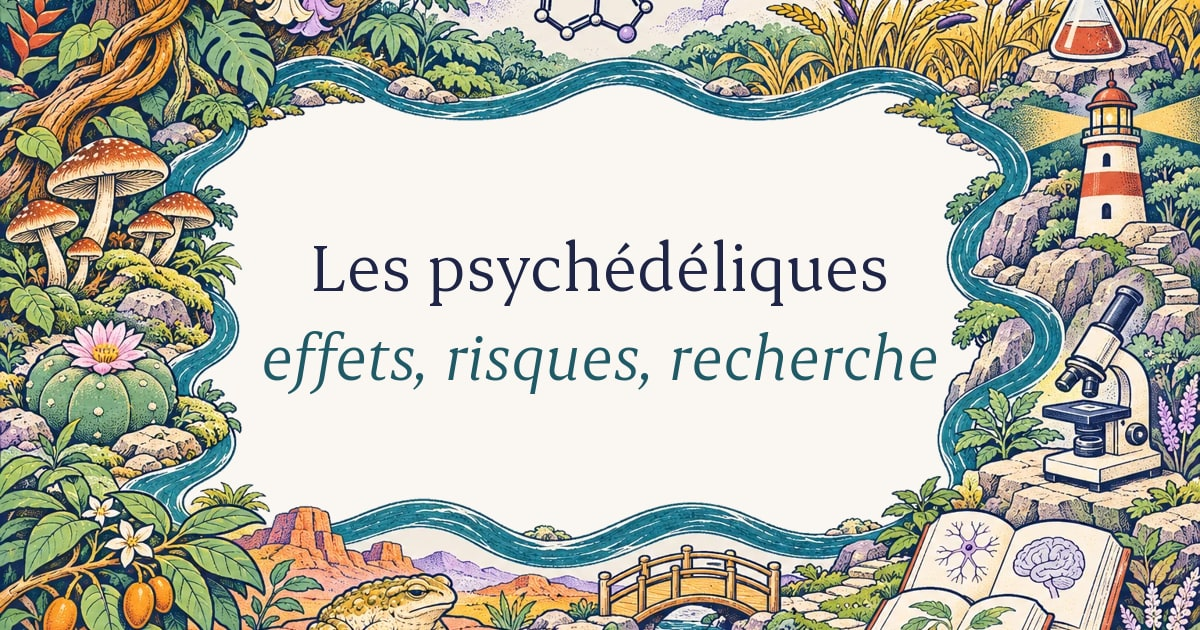
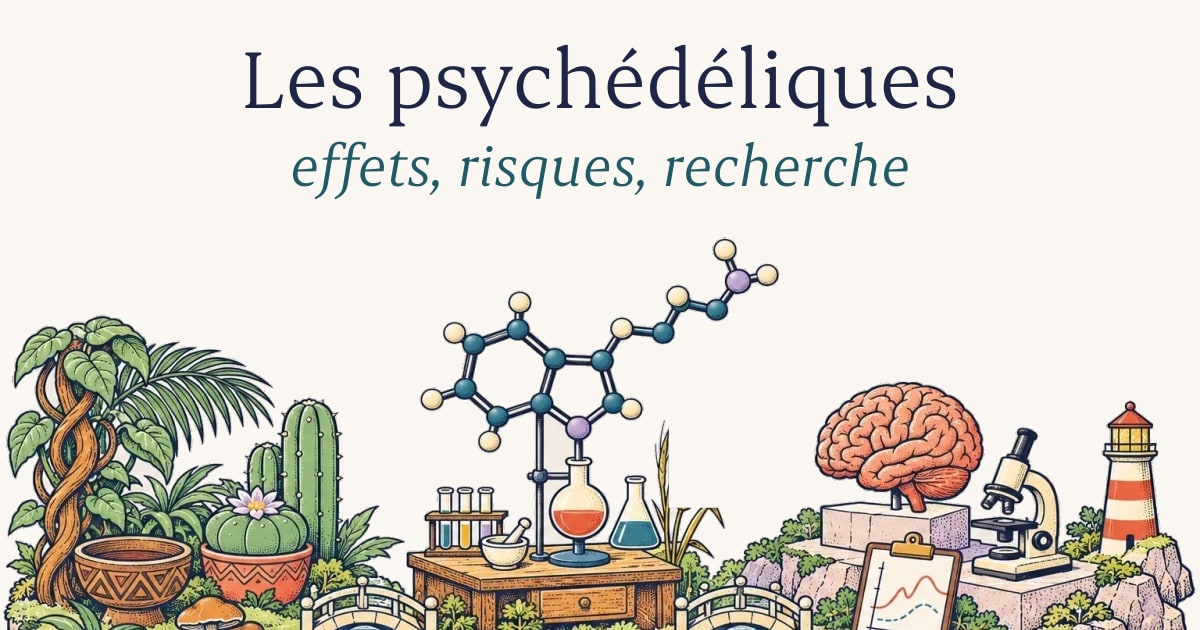
Serve Markdown to agents, add llms.txt and a privacy page (#3)
* Serve Markdown to agents, add llms.txt, a privacy page and richer Organization data

Requests with Accept: text/markdown get a Markdown copy of each page
(built into dist/<path>/index.md) with Vary: Accept, and a Markdown 404
that links to llms.txt and the sitemap. HTML responses now vary on Accept.
llms.txt lists every guide and article and says when an agent should use
the site. /confidentialite/ describes what the forms and analytics collect;
/about/ and /privacy/ redirect to the French pages. The home Organization
JSON-LD gains a description, knowsAbout and a contact point.

* Address review: wildcard Accept, Markdown 404 for any missing page, narrower Worker routes, fuller privacy page

HTML quality now follows RFC 9110 media-range precedence. Missing .md
files and paths without a trailing slash get the Markdown 404, and
pages without a slash redirect as before instead of serving a duplicate.
Static asset folders skip the Worker. The privacy page discloses that
newsletter signups are emailed to the team, describes the archive of the
old WordPress site and calls the anti-abuse key pseudonymised data.

* Use the hero illustration in the home share image

* Home share image: drawing as a full-width band under the title

* Home share image: full-width hero drawing under a larger title

diff --git a/tests/markdown.test.ts b/tests/markdown.test.ts
@@ -1,0 +1,101 @@
+import { test } from 'node:test'
+import assert from 'node:assert/strict'
+import { serveAsset, wantsMarkdown } from '../worker/markdown.ts'
+import { notFoundMarkdown, pageMarkdown } from '../scripts/build-markdown.mjs'
+
+const SITE = 'https://latroisiemevague.com'
+const files: Record<string, { body: string; type: string }> = {
+  '/': { body: '<!doctype html><title>Accueil</title>', type: 'text/html; charset=utf-8' },
+  '/index.md': { body: '# Accueil\n', type: 'text/markdown' },
+  '/substances/lsd/': { body: '<!doctype html><title>LSD</title>', type: 'text/html; charset=utf-8' },
+  '/substances/lsd/index.md': { body: '# LSD\n', type: 'text/markdown' },
+  '/404.md': { body: notFoundMarkdown, type: 'text/markdown' },
+  '/og.jpg': { body: 'jpeg', type: 'image/jpeg' },
+}
+const redirects: Record<string, string> = { '/about/': '/a-propos/', '/substances/lsd': '/substances/lsd/' }
+/** Stands in for the Workers static-assets binding: files, `_redirects`, and the HTML 404 page. */
+const assets = { async fetch(input: Request) {
+  const { pathname } = new URL(input.url)
+  if (redirects[pathname]) return new Response(null, { status: 301, headers: { Location: redirects[pathname] } })
+  const file = files[pathname]
+  return file ? new Response(file.body, { headers: { 'Content-Type': file.type } }) : new Response('<!doctype html><title>404</title>', { status: 404, headers: { 'Content-Type': 'text/html' } })
+} } as unknown as Fetcher
+const get = (path: string, accept: string, method = 'GET') => serveAsset(new Request(SITE + path, { method, headers: { accept } }), assets)
+
+test('Accept parsing prefers Markdown only when asked at least as strongly as HTML', () => {
+  const req = (accept: string) => new Request(SITE, { headers: { accept } })
+  assert.equal(wantsMarkdown(req('text/markdown')), true)
+  assert.equal(wantsMarkdown(req('text/markdown, text/html;q=0.9')), true)
+  assert.equal(wantsMarkdown(req('text/html, text/markdown;q=0.5')), false)
+  assert.equal(wantsMarkdown(req('text/html,application/xhtml+xml,*/*;q=0.8')), false)
+  assert.equal(wantsMarkdown(req('*/*')), false)
+  assert.equal(wantsMarkdown(req('text/markdown;q=0')), false)
+  // A wildcard can still rank HTML above Markdown (RFC 9110 §12.5.1).
+  assert.equal(wantsMarkdown(req('text/markdown;q=0.1, text/*;q=0.9')), false)
+  assert.equal(wantsMarkdown(req('text/markdown, */*;q=0.8')), true)
+  assert.equal(wantsMarkdown(req('text/*')), false)
+})
+
+test('Accept: text/markdown on the home page returns Markdown with Vary: Accept', async () => {
+  const res = await get('/', 'text/markdown')
+  assert.equal(res.status, 200)
+  assert.match(res.headers.get('content-type')!, /^text\/markdown/)
+  assert.match(res.headers.get('vary')!, /Accept/)
+  assert.equal(await res.text(), '# Accueil\n')
+})
+
+test('Accept: text/html keeps the HTML page and adds Vary: Accept', async () => {
+  const res = await get('/', 'text/html')
+  assert.equal(res.status, 200)
+  assert.match(res.headers.get('content-type')!, /^text\/html/)
+  assert.match(res.headers.get('vary')!, /Accept/)
+  assert.match(await res.text(), /<title>Accueil/)
+})
+
+test('a missing page returns 404 with a Markdown body that links to llms.txt and the sitemap', async () => {
+  const res = await get('/nexiste-pas/', 'text/markdown')
+  assert.equal(res.status, 404)
+  assert.match(res.headers.get('content-type')!, /^text\/markdown/)
+  const body = await res.text()
+  assert.ok(body.length >= 20)
+  assert.match(body, /llms\.txt/)
+  assert.match(body, /sitemap\.xml/)
+  assert.equal((await get('/nexiste-pas/', 'text/html')).status, 404)
+  // Paths without a trailing slash (like audit probes) and stale .md links get the same Markdown 404.
+  for (const path of ['/__probe-404', '/ancienne-page/index.md']) {
+    const missing = await get(path, 'text/markdown')
+    assert.equal(missing.status, 404, path)
+    assert.match(missing.headers.get('content-type')!, /^text\/markdown/, path)
+  }
+  assert.match((await get('/ancienne-page/index.md', '*/*')).headers.get('content-type')!, /^text\/markdown/)
+})
+
+test('redirects still apply to Markdown requests', async () => {
+  const res = await get('/about/', 'text/markdown')
+  assert.equal(res.status, 301)
+  assert.equal(res.headers.get('location'), '/a-propos/')
+  assert.match(res.headers.get('vary')!, /Accept/)
+  // No duplicate Markdown URL without the trailing slash: the canonical redirect applies.
+  const noSlash = await get('/substances/lsd', 'text/markdown')
+  assert.equal(noSlash.status, 301)
+  assert.equal(noSlash.headers.get('location'), '/substances/lsd/')
+})
+
+test('HEAD returns Markdown headers without a body, and files are served untouched', async () => {
+  const head = await get('/substances/lsd/', 'text/markdown', 'HEAD')
+  assert.equal(head.status, 200)
+  assert.match(head.headers.get('content-type')!, /^text\/markdown/)
+  assert.equal(await head.text(), '')
+  const image = await get('/og.jpg', 'text/markdown')
+  assert.equal(image.headers.get('content-type'), 'image/jpeg')
+  assert.equal(image.headers.get('vary'), null)
+})
+
+test('page Markdown keeps the main content, drops decoration and makes links absolute', () => {
+  const md = pageMarkdown(`<!doctype html><html><head><title>LSD | La Troisième Vague</title><meta name="description" content="Effets et risques."><link rel="canonical" href="${SITE}/substances/lsd/"></head>
+    <body><header><nav>Menu</nav></header><main><h1>LSD</h1><p>Voir <a href="/aide/">l’aide</a>.</p><span class="gnum" aria-hidden="true">01</span><img src="/a.webp" alt=""><button>Ouvrir</button></main><footer>Pied</footer></body></html>`)
+  assert.match(md, /^# LSD/)
+  assert.match(md, /\[l’aide\]\(https:\/\/latroisiemevague\.com\/aide\/\)/)
+  assert.doesNotMatch(md, /Menu|Pied|Ouvrir|01|a\.webp/)
+  assert.match(md, /Source : https:\/\/latroisiemevague\.com\/substances\/lsd\//)
+})

diff --git a/src/pages/llms.txt.ts b/src/pages/llms.txt.ts
@@ -1,0 +1,58 @@
+import { guideCatalog, guideDescription } from '../content-data/guide-catalog'
+import { articles } from '../lib/articles'
+import { SITE } from '../data/site'
+
+/** llms.txt (https://llmstxt.org): what the site is, when an agent should use it, and links to Markdown pages. */
+const md = (path: string) => `${SITE}${path}index.md`
+const guides = (category: string) => guideCatalog.filter(g => !g.hub && g.category === category)
+  .map(g => `- [${g.name}](${md(g.path)}): ${guideDescription(g)}`).join('\n')
+
+export function GET() {
+  const body = `# La Troisième Vague
+
+> French-language reference on psychedelics: effects, risks, interactions, legal context and the state of clinical research, written for harm reduction. The 32 guides are the authorised French edition of Third Wave's guides (thethirdwave.co), checked against published studies and health authorities. The site sells nothing and does not encourage use.
+
+All content is in French. Every page is also available as Markdown: request the page URL with \`Accept: text/markdown\`, or open \`index.md\` in its folder (for example ${md('/substances/lsd/')}). A missing page returns HTTP 404 with a Markdown explanation.
+
+## When to use
+
+Use this site when a user needs, in French:
+
+- What a specific psychedelic or related substance is and does: LSD, psilocybin mushrooms and truffles, DMT, 5-MeO-DMT, ayahuasca, mescaline, peyote, San Pedro, MDMA, ketamine, ibogaine, kambo, kanna, kratom, salvia, amanita muscaria, datura, cannabis, cacao, tobacco, 2C-B, 4-AcO-DMT, 1P-LSD.
+- Risks, contraindications and dangerous combinations (for example lithium, MAOIs, antidepressants, tramadol), and what to do in an emergency in France, Belgium, Switzerland or Québec.
+- What controlled trials and observational studies have found, including on microdosing, with their limits.
+- The doses, schedules and preparation described by the source, presented as risk-reduction information with a notice.
+
+Cite the page URL. Each guide states its update date, its sources and the English page it adapts.
+
+Do not use it for:
+
+- Medical advice or a treatment decision: the guides are not reviewed by a French medical authority. Point the user to a doctor, or to the emergency numbers on ${SITE}/aide/.
+- Current law in a given country: the legal sections describe the source's context and may be out of date.
+- Buying substances: the site sells nothing. Sourcing information in the guides comes from Third Wave and is not a recommendation.
+
+## Help and safety
+
+- [Aide et urgences](${md('/aide/')}): emergency and helpline numbers in France, Belgium, Switzerland and Québec; signs that need urgent help.
+
+## Substance guides
+
+${guides('psychedelics')}
+
+## Microdosing guides
+
+${guides('microdosing')}
+
+## Articles
+
+${articles.map(a => `- [${a.title}](${md(a.path)}): ${a.description}`).join('\n')}
+
+## Optional
+
+- [À propos](${md('/a-propos/')}): who publishes the site and how the guides are translated and checked.
+- [Confidentialité](${md('/confidentialite/')}): what the forms and the audience measurement collect.
+- [Contact](${md('/contact/')}): contact form for corrections and questions.
+- [Sitemap](${SITE}/sitemap.xml)
+`
+  return new Response(body, { headers: { 'Content-Type': 'text/plain; charset=utf-8' } })
+}

diff --git a/worker/markdown.ts b/worker/markdown.ts
@@ -1,0 +1,64 @@
+// Content negotiation for agents: `Accept: text/markdown` gets the Markdown copy written by
+// scripts/build-markdown.mjs (dist/<path>/index.md); other requests get the static asset as before.
+
+/**
+ * Quality of `type` in an Accept header, using the most specific matching media range
+ * (exact, then `type/*`, then `*\/*`) as in RFC 9110 §12.5.1. Returns 0 when nothing matches.
+ */
+function quality(accept: string, type: string, exactOnly = false) {
+  let best = { specificity: -1, q: 0 }
+  for (const part of accept.split(',')) {
+    const [media, ...params] = part.trim().toLowerCase().split(';').map(s => s.trim())
+    const specificity = media === type ? 2 : !exactOnly && media === `${type.split('/')[0]}/*` ? 1 : !exactOnly && media === '*/*' ? 0 : -1
+    if (specificity <= best.specificity) continue
+    const q = params.find(p => p.startsWith('q='))
+    best = { specificity, q: q ? Number(q.slice(2)) || 0 : 1 }
+  }
+  return best.q
+}
+
+/** True when the client names text/markdown explicitly and prefers it at least as much as HTML. */
+export function wantsMarkdown(request: Request) {
+  const accept = request.headers.get('accept') || ''
+  const markdown = quality(accept, 'text/markdown', true)
+  return markdown > 0 && markdown >= quality(accept, 'text/html')
+}
+
+const markdownHeaders = (status: number) => ({
+  'Content-Type': 'text/markdown; charset=utf-8',
+  Vary: 'Accept',
+  'Cache-Control': status === 200 ? 'public, max-age=300' : 'no-store',
+  'X-Content-Type-Options': 'nosniff',
+})
+
+function withVary(response: Response) {
+  const out = new Response(response.body, response)
+  out.headers.append('Vary', 'Accept')
+  return out
+}
+
+async function markdownNotFound(request: Request, assets: Fetcher) {
+  const body = await (await assets.fetch(new Request(new URL('/404.md', request.url), { method: 'GET' }))).text()
+  return new Response(request.method === 'HEAD' ? null : body, { status: 404, headers: markdownHeaders(404) })
+}
+
+export async function serveAsset(request: Request, assets: Fetcher) {
+  if (!['GET', 'HEAD'].includes(request.method)) return assets.fetch(request)
+  const { pathname } = new URL(request.url)
+  const markdown = wantsMarkdown(request)
+  const isFile = /\.[a-z0-9]+$/i.test(pathname)
+
+  // Pages live at folder URLs; the Markdown copy sits next to the HTML as index.md.
+  if (pathname.endsWith('/') && markdown) {
+    const copy = await assets.fetch(new Request(new URL(`${pathname}index.md`, request.url), { method: 'GET' }))
+    if (copy.ok) return new Response(request.method === 'HEAD' ? null : copy.body, { status: 200, headers: markdownHeaders(200) })
+    // A missing copy can still be a redirect (/about/ → /a-propos/, legacy URLs).
+    const page = await assets.fetch(new Request(request.url, { method: 'GET', redirect: 'manual' }))
+    return page.status >= 300 && page.status < 400 ? withVary(page) : markdownNotFound(request, assets)
+  }
+
+  // Everything else keeps the asset response (files, trailing-slash and _redirects redirects, HTML pages).
+  const response = await assets.fetch(request)
+  if (response.status === 404 && (markdown || pathname.endsWith('.md'))) return markdownNotFound(request, assets)
+  return isFile ? response : withVary(response)
+}

diff --git a/src/pages/sitemap.xml.ts b/src/pages/sitemap.xml.ts
@@ -2,7 +2,7 @@ import { guideCatalog, guideFor, guideDates } from '../lib/guides'
 import { articles } from '../lib/articles'
 const SITE = 'https://latroisiemevague.com'
 export function GET() {
-  const urls: [string, string?][] = [['/'], ['/substances/'], ['/microdosing/'], ['/blog/'], ['/aide/'], ['/a-propos/'], ['/contact/'],
+  const urls: [string, string?][] = [['/'], ['/substances/'], ['/microdosing/'], ['/blog/'], ['/aide/'], ['/a-propos/'], ['/contact/'], ['/confidentialite/'],
     ...guideCatalog.map(g => [g.path, guideDates(guideFor(g)).modified] as [string, string]),
     ...articles.map(a => [a.path, a.modified] as [string, string])]
   return new Response(`<?xml version="1.0" encoding="UTF-8"?><urlset xmlns="http://www.sitemaps.org/schemas/sitemap/0.9">${urls.map(([p, m]) => `<url><loc>${SITE}${p}</loc>${m ? `<lastmod>${m.slice(0, 10)}</lastmod>` : ''}</url>`).join('')}</urlset>`, { headers: { 'Content-Type': 'application/xml' } })

diff --git a/worker/forms.ts b/worker/forms.ts
@@ -1,3 +1,4 @@
+import { serveAsset } from './markdown.ts'
 const recipients = ['martindonadieu@gmail.com', 'orion.aubert@gmail.com']
 const success = 'Merci ! Votre demande a bien été enregistrée.'
 const json = (message: string, status = 200) => Response.json({ message }, { status, headers: { 'Cache-Control': 'no-store' } })
@@ -30,7 +31,7 @@ export async function deliver(env: Env) {
 }
 export default {
   async fetch(request, env, ctx) {
-    if (new URL(request.url).pathname !== '/api/forms') return env.ASSETS.fetch(request)
+    if (new URL(request.url).pathname !== '/api/forms') return serveAsset(request, env.ASSETS)
     if (request.method !== 'POST') return new Response('Method not allowed', { status: 405, headers: { Allow: 'POST' } })
     const origin = request.headers.get('origin')
     if (origin && origin !== new URL(request.url).origin) return json('Origine non autorisée.', 403)
